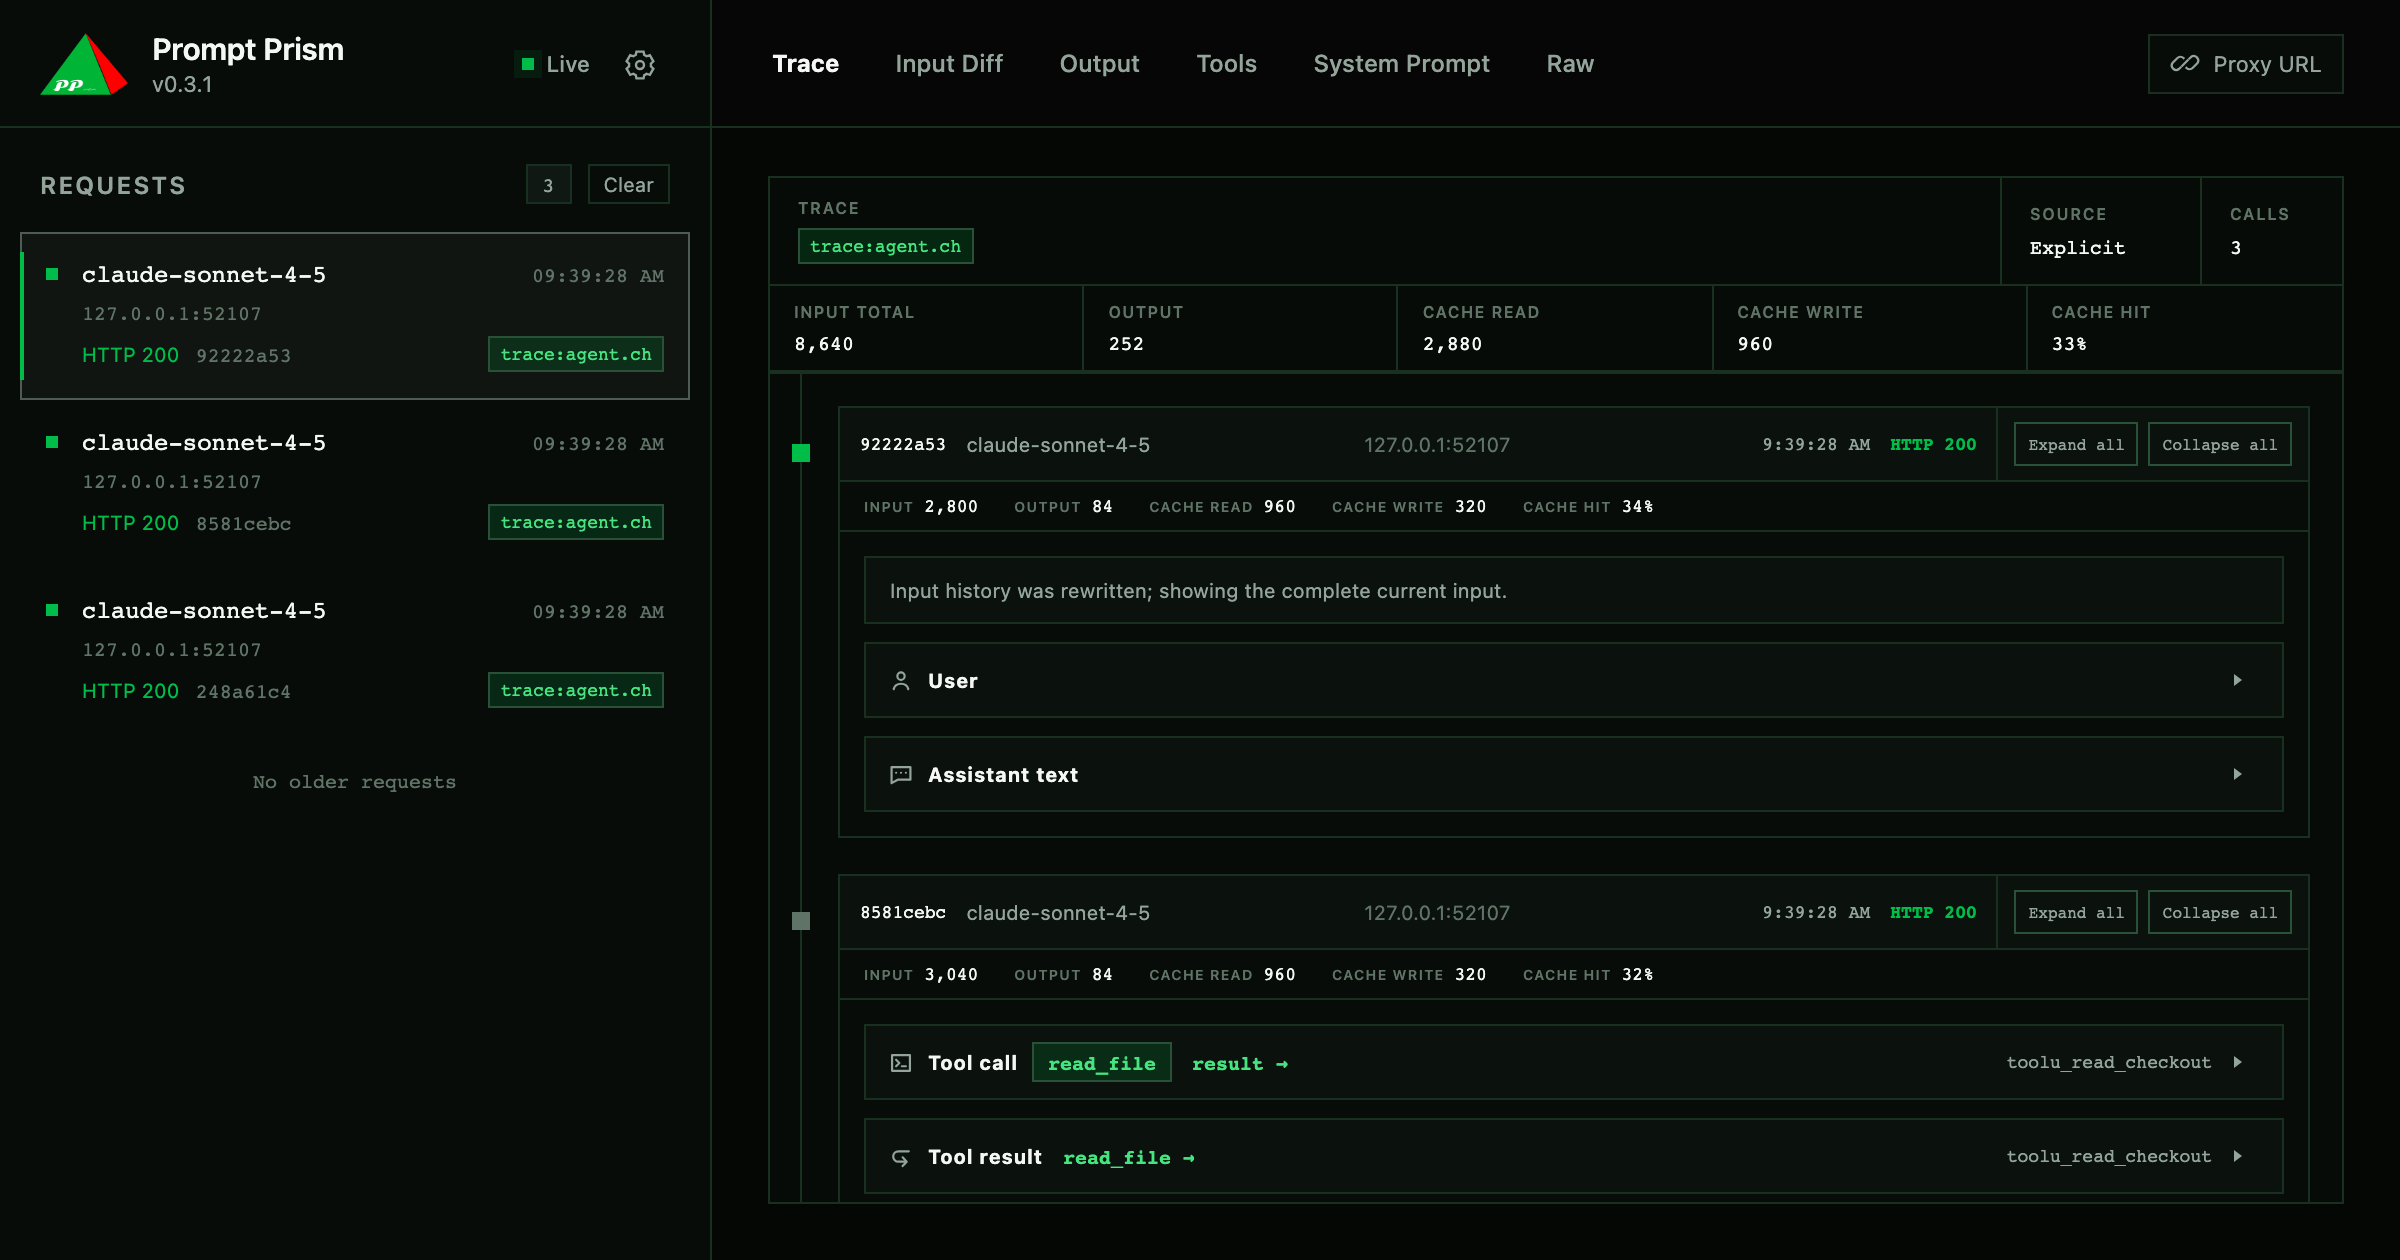
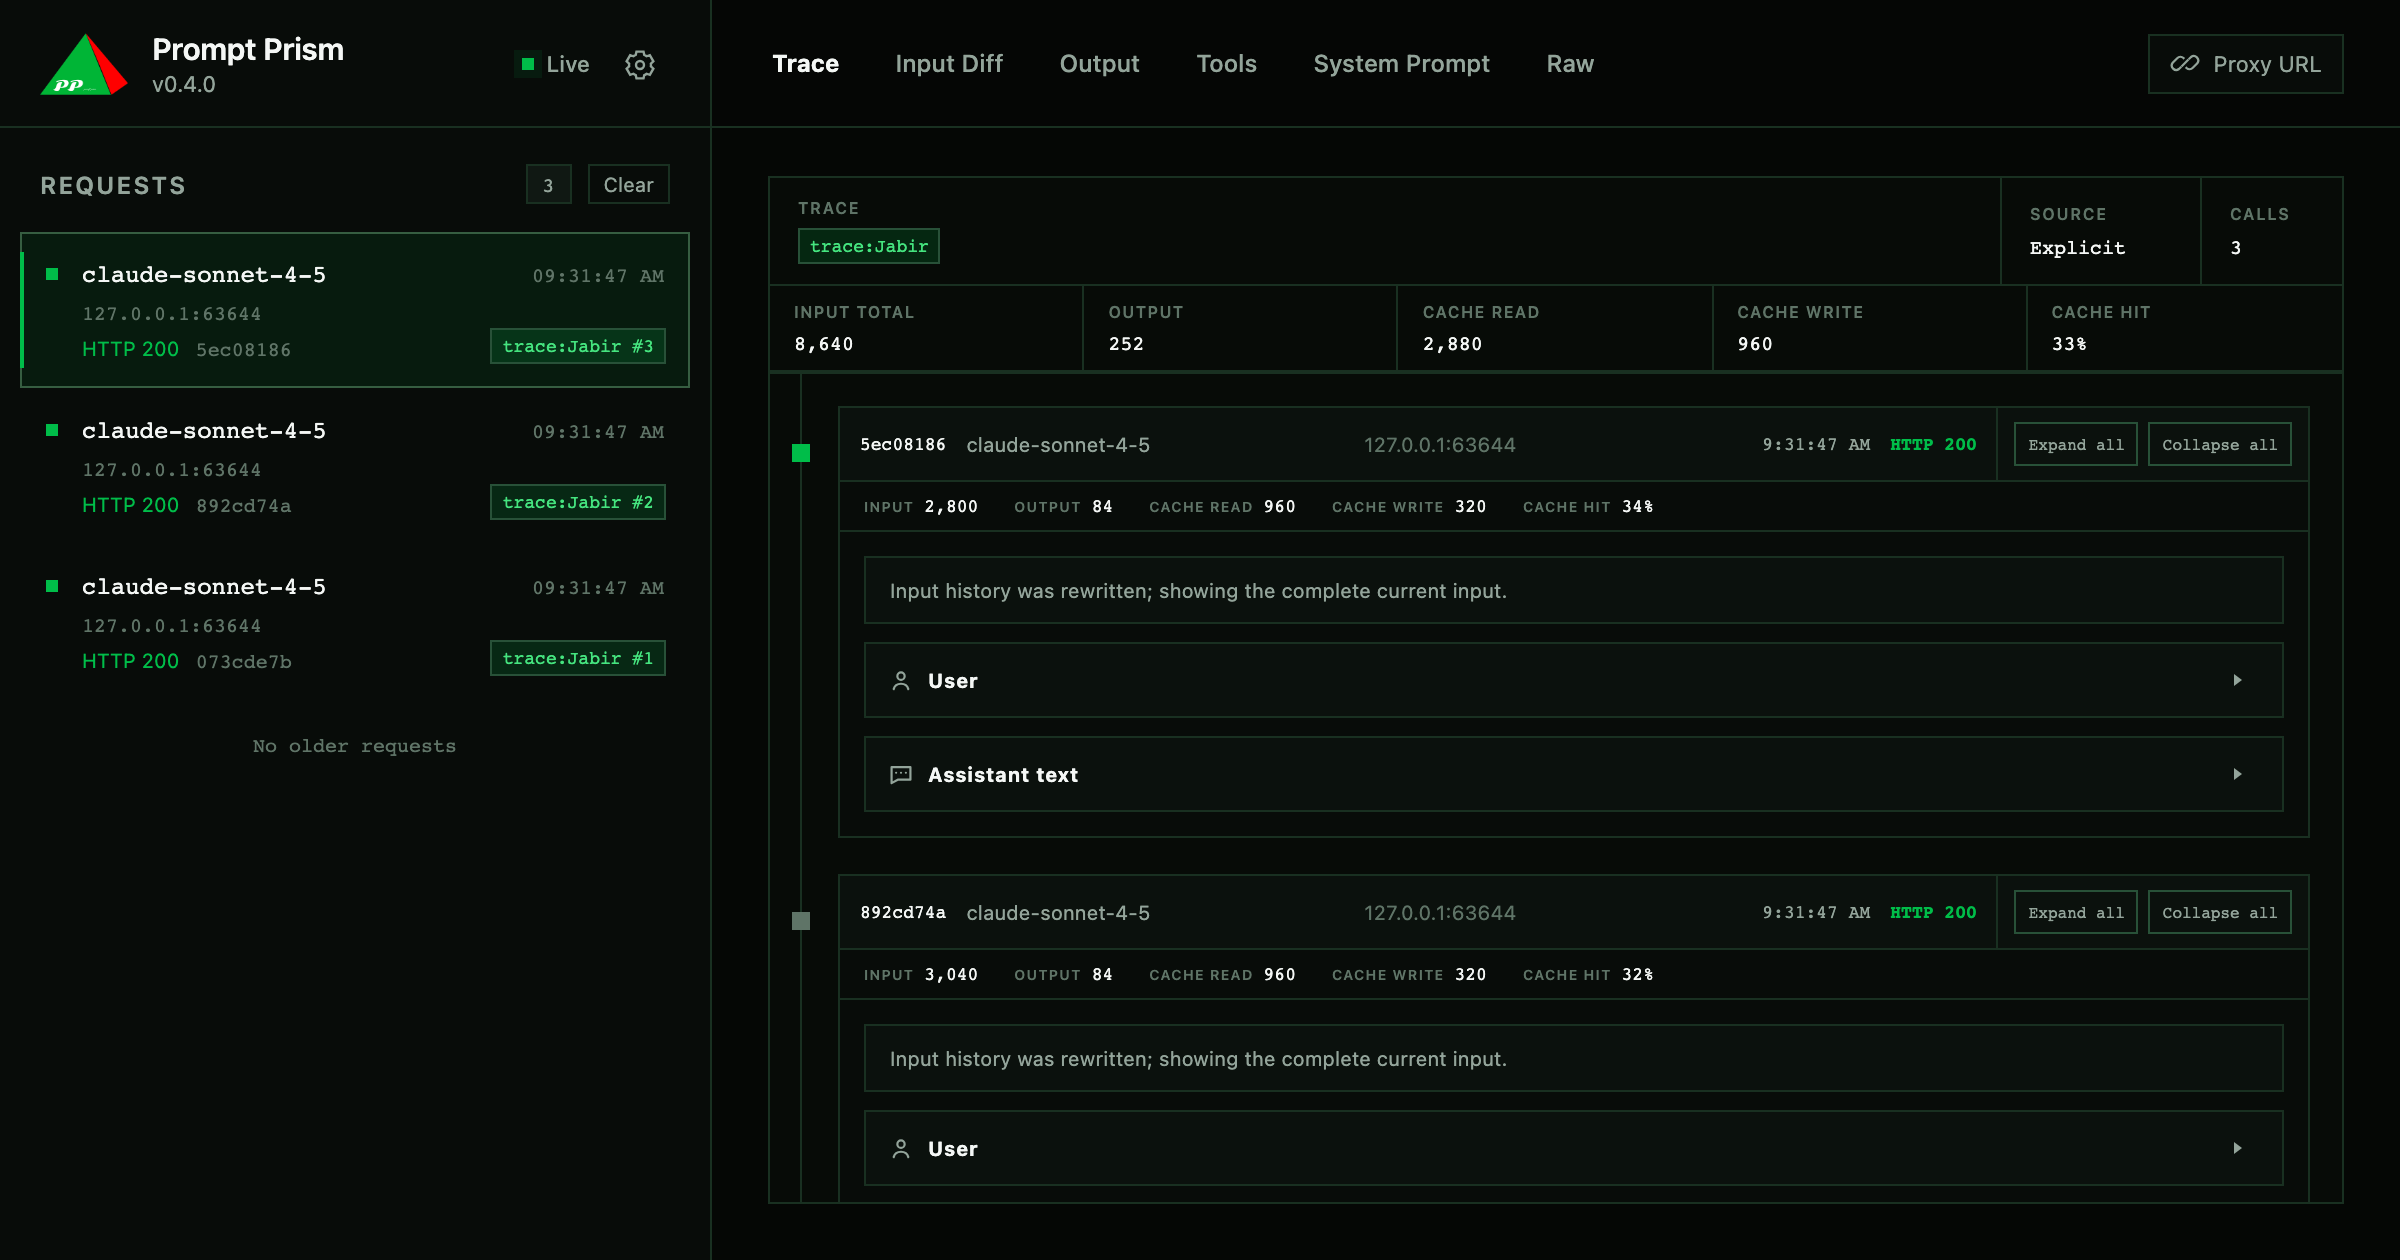
chore(release): prepare v0.4.0

diff --git a/CHANGELOG.md b/CHANGELOG.md
@@ -1,5 +1,41 @@
 # Changelog
 
+## [0.4.0](https://github.com/tao-zhi-1992/prompt-prism/compare/v0.3.2...v0.4.0) (2026-08-14)
+
+### Features
+
+* **cli:** add registry fallback update checks ([9cc4a78](https://github.com/tao-zhi-1992/prompt-prism/commit/9cc4a784f66c13d13146eb90b3978cca2c6950ea))
+* **dashboard:** add trace request indexes and navigation ([9690a65](https://github.com/tao-zhi-1992/prompt-prism/commit/9690a65e9f788bcdc8ae9636daeb07c9b8fb00fc))
+* **dashboard:** link logo to landing page ([8176159](https://github.com/tao-zhi-1992/prompt-prism/commit/8176159867b1ca0b7ada92f103318c72f885115f))
+* **protocol:** add official adapter fixtures ([3012144](https://github.com/tao-zhi-1992/prompt-prism/commit/301214401fc82eff7f2bda84aeef27cb57098a7e))
+* **trace:** add memorable display aliases ([004519c](https://github.com/tao-zhi-1992/prompt-prism/commit/004519c1c4112a05367546f127e68ceec140dcc5))
+
+### Bug Fixes
+
+* **release:** use public entrypoint for dashboard screenshot ([bc10262](https://github.com/tao-zhi-1992/prompt-prism/commit/bc10262b93dbd4b31ae7c994bbff68a79dd4e015))
+
+### Refactoring
+
+* **core:** move unit tests into core package ([e8ce976](https://github.com/tao-zhi-1992/prompt-prism/commit/e8ce976cda4a2b75724303f66e23926ca18c376d))
+* **packages:** split core modules into workspace packages ([8f647d8](https://github.com/tao-zhi-1992/prompt-prism/commit/8f647d8e38a5a4fbf2b45b4ccb5ed3f7dbcae5f6))
+* **trace:** decouple trace lifecycle from input diff ([dc3ca00](https://github.com/tao-zhi-1992/prompt-prism/commit/dc3ca006a1e33fa65260d0c952eae919f8e04cc3))
+
+### Documentation
+
+* clarify local capture storage ([adb1add](https://github.com/tao-zhi-1992/prompt-prism/commit/adb1add0584a140c63d3c6a672825920094e9cfb))
+
+### Tests
+
+* **core:** enforce coverage gates ([09a33cd](https://github.com/tao-zhi-1992/prompt-prism/commit/09a33cd749681bbff9b17fdc30519c18c752806d))
+* align package test ownership ([c849d34](https://github.com/tao-zhi-1992/prompt-prism/commit/c849d340e2753ff558ad4b748156d43e85afc24a))
+
+### Styles
+
+* **dashboard:** refine selected request state ([8d581fc](https://github.com/tao-zhi-1992/prompt-prism/commit/8d581fc06c9723157a612dc89759efa5732eef22))
+* **dashboard:** simplify trace styling ([042e4ec](https://github.com/tao-zhi-1992/prompt-prism/commit/042e4ec0e0896ad48976115bf4f32b78057bbc2d))
+* **dashboard:** unify system prompt labels ([32061b7](https://github.com/tao-zhi-1992/prompt-prism/commit/32061b76fd604d095388c885bd3eb9a265fdd681))
+* standardize test layout ([c35fb2a](https://github.com/tao-zhi-1992/prompt-prism/commit/c35fb2a462f2f59cad86c690cb055b82400f891c))
+
 ## [0.3.2](https://github.com/tao-zhi-1992/prompt-prism/compare/v0.3.1...v0.3.2) (2026-08-13)
 
 
